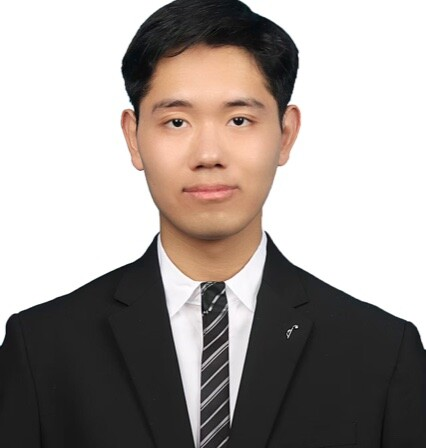
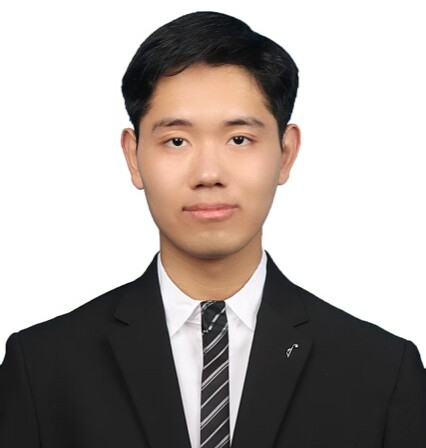
Portrait recrop 12%/18% from original; Amazon spotlight photo from IMG_20260802_050958 (cache-busting query params)

Changed region(s): [[0.0, 0.0, 1.0, 1.0], [0.6714, 0.7188, 0.7019, 0.8125]]

diff --git a/index.html b/index.html
@@ -87,7 +87,7 @@
     <section id="about">
       <div class="hero reveal">
         <div class="hero-photo">
-          <img src="assets/img/portrait-sq.jpg" alt="Portrait of Zhengdong Hong">
+          <img src="assets/img/portrait-sq.jpg?v=2" alt="Portrait of Zhengdong Hong">
         </div>
         <div class="hero-body">
           <h1 class="hero-name">Zhengdong Hong<span class="zh-name">洪郑栋</span></h1>
@@ -381,7 +381,7 @@
           </p>
         </div>
         <div class="spotlight-img">
-          <img src="assets/img/systems/vega-amazon.jpg" alt="Dexmate Vega Pro wheeled humanoid with dexterous hands reaching over a task table of household objects" loading="lazy">
+          <img src="assets/img/systems/vega-amazon.jpg?v=2" alt="Dexmate Vega Pro wheeled humanoid leaning over a small white table with its wrist camera and gripper extended, a second Vega and camera rig in the background" loading="lazy">
         </div>
       </div>
 
